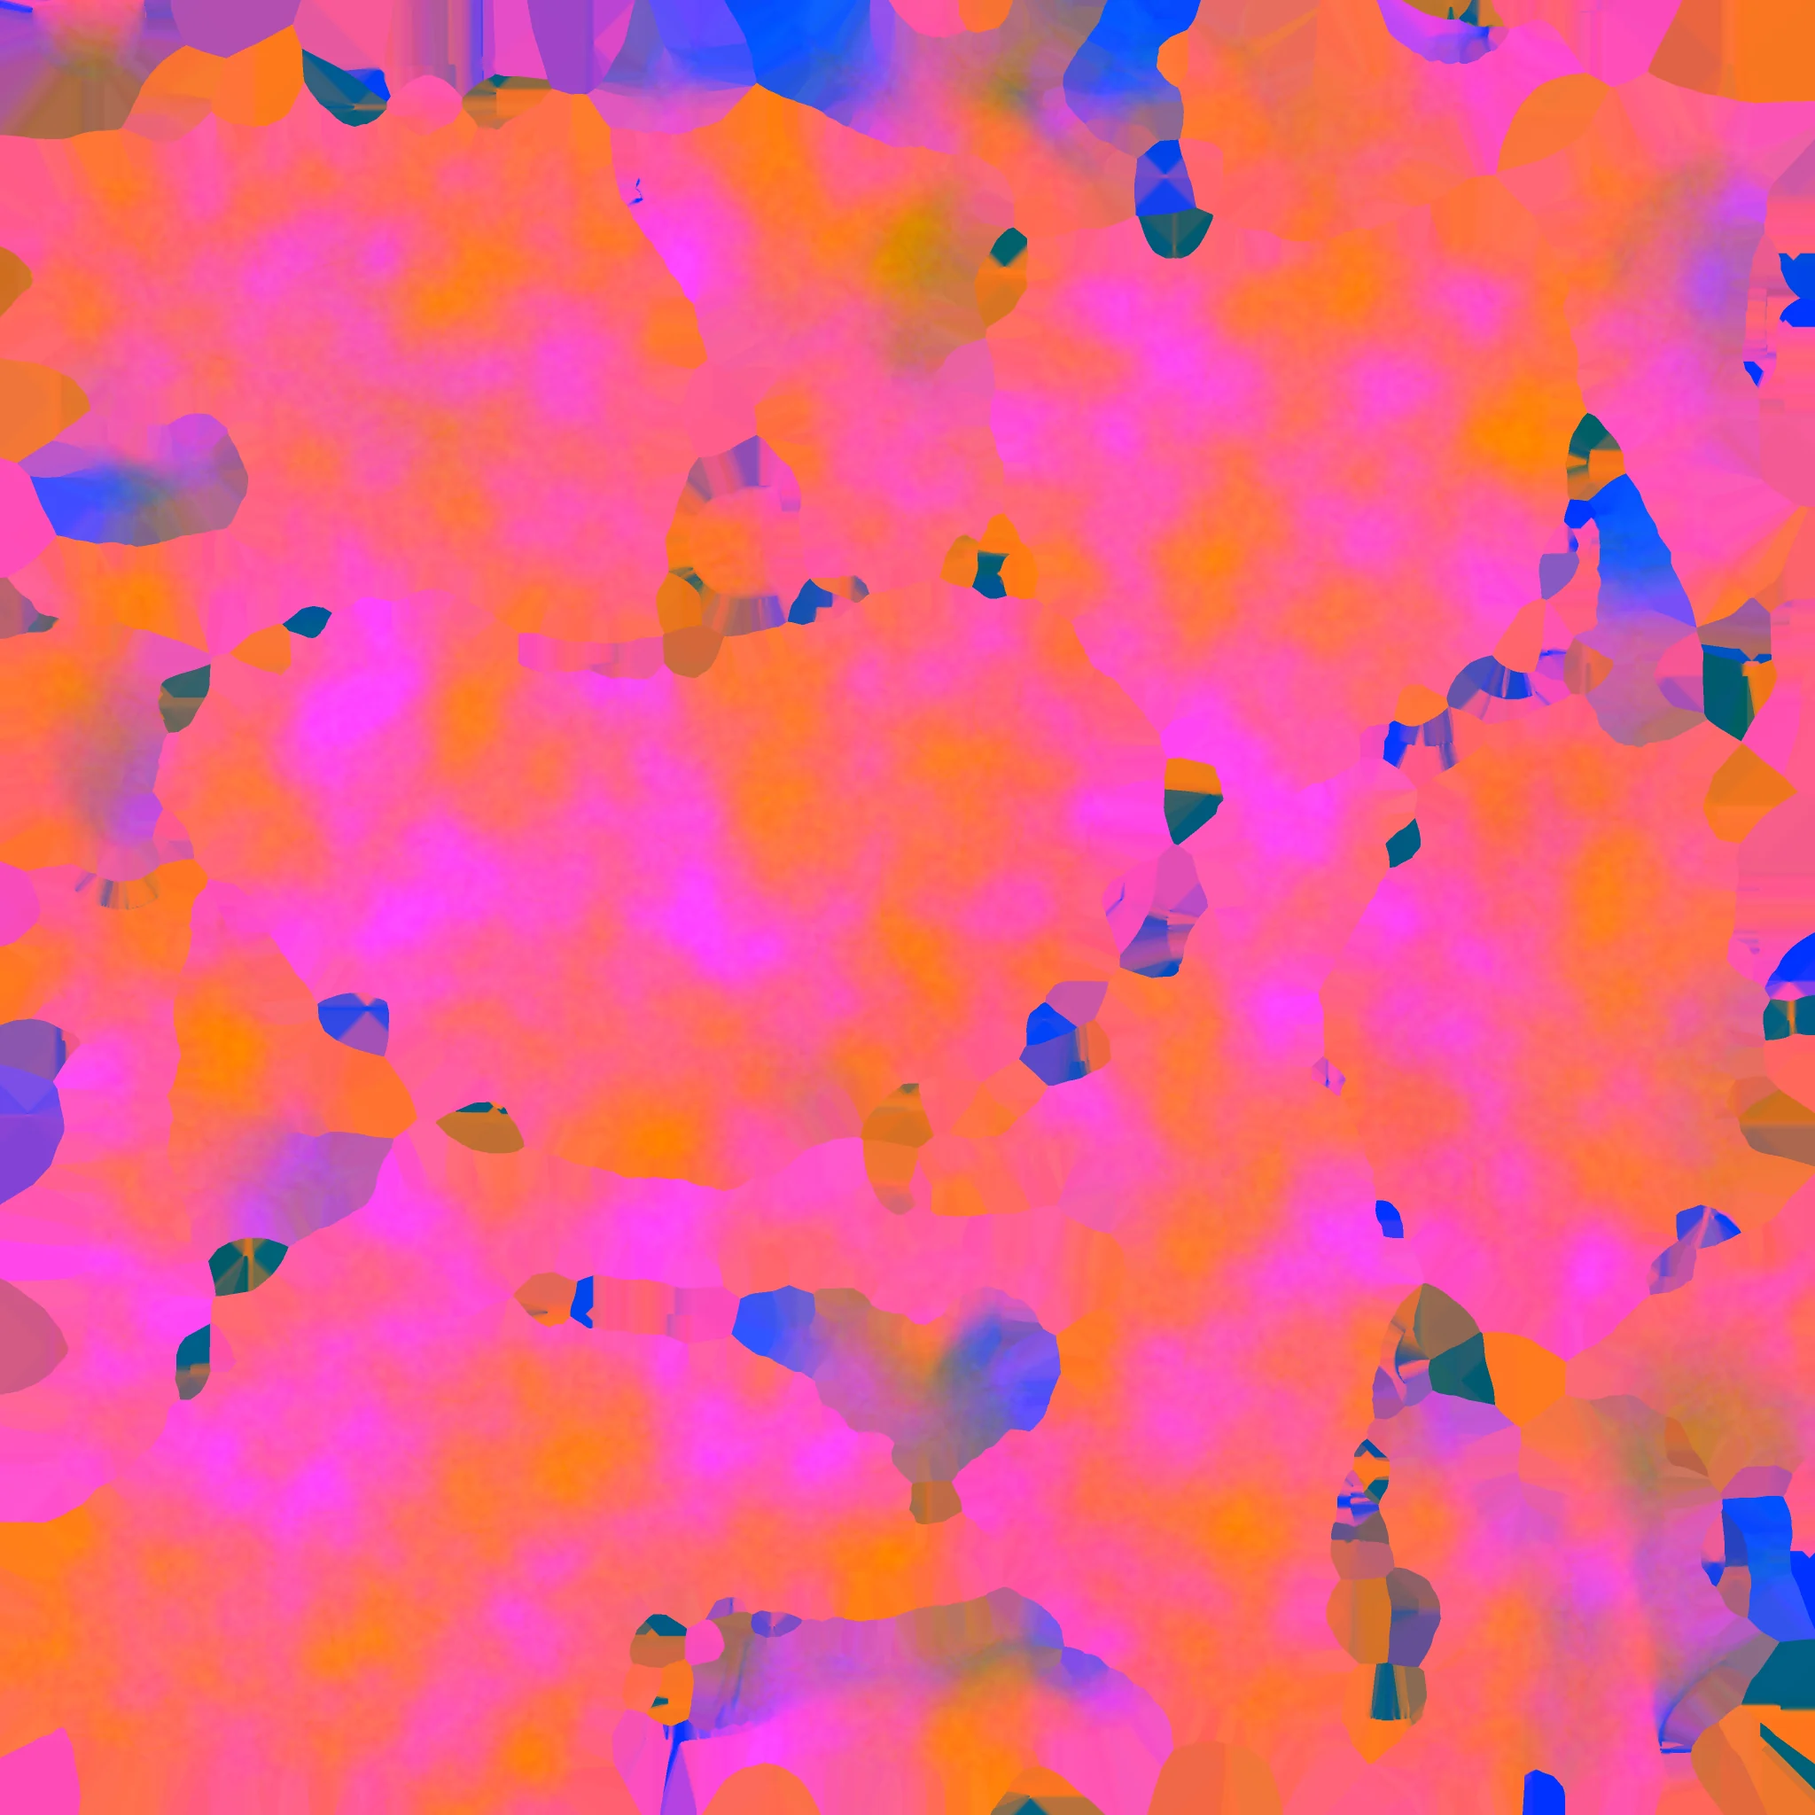
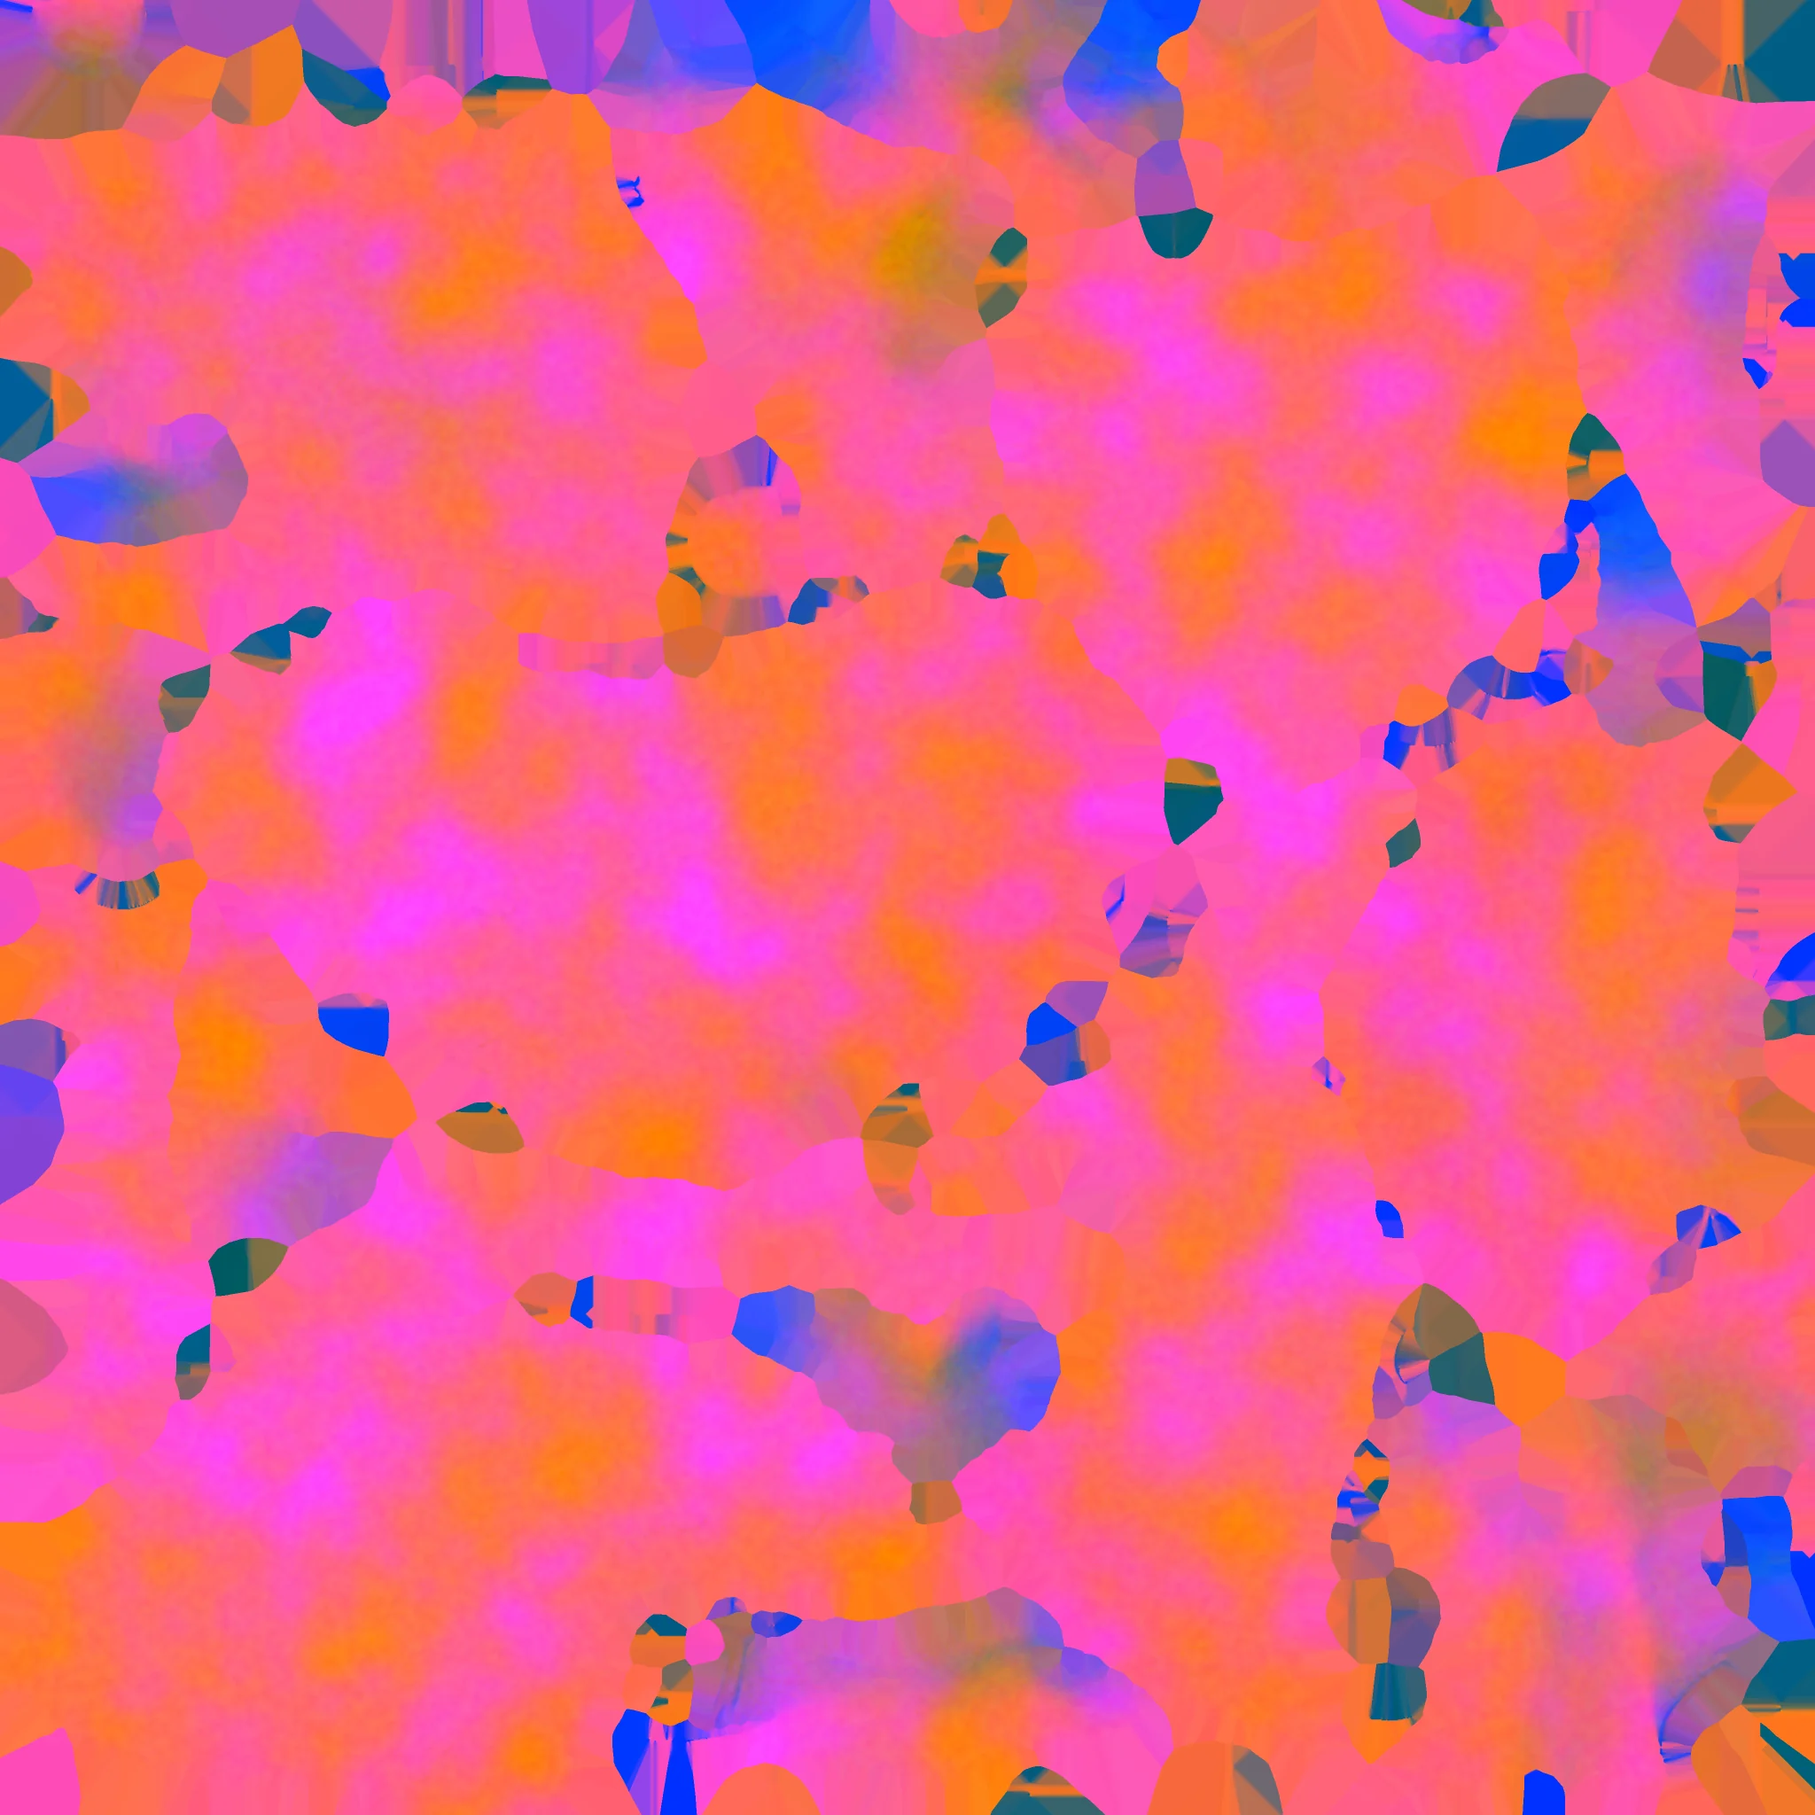
Task 9: liver surface without the lobule pattern; coarse capsule, veins, contouring; env + key lighting
Removed the surface lobule pattern (albedo Worley speckle and the lobular close-range detail map)
that read as blur at mid distance. bake44.py relief now: broad contouring plus a few long, soft
creases (zero set of a warped low-frequency field; the old Worley creases formed a cellular net),
faintly raised subcapsular veins on the same network the albedo darkens (tissue-liver-5), and a
slightly coarse ~1.3 mm capsular grain (maleinternalorans3dsmodel25); full liver re-bake. Close-range
micro-texture liver44_micro.webp (fine grain, sparse soft pits, no cells), faded out by screen
footprint so it only shows up close. Wet serosal gloss via clearcoat from the baked wetness mask;
the bare area, IVC groove and gallbladder fossa stay matte (masks checked in place with the skin
debug view). Lighting is environment map + key (world key and viewer headlight): the blue fill and
amber rim lights are removed (gold streaks on the wet visceral surface), ambient 0.54 -> 0.34,
environment 1.5 -> 1.75, headlight 0.66 -> 0.80. No shadow maps. Baselines rebaselined.

Claude-Session: https://claude.ai/code/session_01Nj6yACnfvfM4DxtWCtf6uA

diff --git a/src/atlas.js b/src/atlas.js
@@ -202,8 +202,12 @@ function info(l){
 /* v36 render settings in one place (tone mapper, exposure, light rig, environment strength) */
 /* ACESFilmic kept: against AgX at matched brightness it holds the teaching colour code apart (CIEDE2000, home view:
    artery–portal 33.5 vs 27.3, bile–artery 43.8 vs 31.3, fat–nutmeg 15.3 vs 10.1, portal–hepatic vein 19.6 vs 15.7). */
-const R36={tm:THREE.ACESFilmicToneMapping, exp:1.15, env:1.5,
-  key:[0xFFF1E4,1.50,-4,5,6], fill:[0x9DB6DA,0.54,6,0.5,3], rim:[0xE8B070,0.84,-3,3,-6], amb:[0x1C2734,0.54], cam:0.66};
+/* v44 (Task 9): environment map + key light. The coloured fill (blue) and rim (amber) lights are gone: on the wet liver
+   the amber rim left gold streaks on the visceral surface. The key is the world key plus the viewer-mounted headlight
+   (so the side turned to the viewer stays lit), the flat ambient is lower (it flattened surfaces towards clay), and the
+   studio environment carries a little more of the fill and the wet reflections. No shadow maps (Task 1). */
+const R36={tm:THREE.ACESFilmicToneMapping, exp:1.15, env:1.75,
+  key:[0xFFF1E4,1.50,-4,5,6], amb:[0x1C2734,0.34], cam:0.80};
 const stageEl = document.getElementById('stage');
 const renderer = new THREE.WebGLRenderer({antialias:true, powerPreference:'high-performance'});
 renderer.setPixelRatio(Math.min(devicePixelRatio, 2));
@@ -242,9 +246,7 @@ function addLight(col, inten, x,y,z){
   const l = new THREE.DirectionalLight(col, inten);
   l.position.set(x,y,z); scene.add(l); return l;   // position is read-only: always .set()
 }
-const LIGHTS={key:addLight(R36.key[0],R36.key[1],R36.key[2],R36.key[3],R36.key[4]),
-  fill:addLight(R36.fill[0],R36.fill[1],R36.fill[2],R36.fill[3],R36.fill[4]),
-  rim:addLight(R36.rim[0],R36.rim[1],R36.rim[2],R36.rim[3],R36.rim[4]), amb:new THREE.AmbientLight(R36.amb[0],R36.amb[1])};
+const LIGHTS={key:addLight(R36.key[0],R36.key[1],R36.key[2],R36.key[3],R36.key[4]), amb:new THREE.AmbientLight(R36.amb[0],R36.amb[1])};
 scene.add(LIGHTS.amb);
 
 const controls = new OrbitControls(camera, renderer.domElement);
@@ -1582,18 +1584,21 @@ function falciformBuild(body){
    v44: the maps come from pipeline/bake44.py (one scripted headless run: tangent normal, self-AO, cavity, curvature,
    thickness and position bakes → albedo, normal and ORM = R occlusion, G roughness, B clearcoat / wetness), 4K on desktop
    and 2K on phones, chosen at load (phones had no liver maps before). The tiling detail map replaces the generic skin atlas
-   on the liver at close range (desktop), with the macro maps carrying colour, capsular veins, creases, wetness and AO. */
+   on the liver at close range (desktop), with the macro maps carrying colour, capsular veins, creases, wetness and AO.
+   v44 (Task 9): the detail map is liver44_micro.webp, a fine capsular grain with sparse soft pits and no lobular cells (the
+   v42 Worley lobules read as a blurred pattern at mid distance); the skin shader fades it out by screen footprint, so it
+   only appears at close range. */
 /* v44: uLvMean (skin uniforms) is the mean of the composed liver albedo (bake44.py prints it), so pathology colours keep
    their luminance when they take only the map's light/dark pattern */
 const LIVER_PHONE=innerWidth<=860||(innerHeight<=520&&matchMedia('(pointer:coarse)').matches);
 const LIVER_DETAIL_TEX=(()=>{ if(LIVER_PHONE) return null;
-  const t=new THREE.TextureLoader().load('liver42_detail.png'); t.wrapS=t.wrapT=THREE.RepeatWrapping; t.anisotropy=renderer.capabilities.getMaxAnisotropy(); t.colorSpace=THREE.NoColorSpace; return t; })();
+  const t=new THREE.TextureLoader().load('liver44_micro.webp'); t.wrapS=t.wrapT=THREE.RepeatWrapping; t.anisotropy=renderer.capabilities.getMaxAnisotropy(); t.colorSpace=THREE.NoColorSpace; return t; })();
 function liverTex42(...mats){
   const ld=new THREE.TextureLoader(), an=renderer.capabilities.getMaxAnisotropy(), tag=LIVER_PHONE?'2k':'4k';
   const L=(f,cs)=>new Promise((ok,no)=>ld.load(f,t=>{ t.colorSpace=cs; t.anisotropy=an; ok(t); },undefined,()=>no(new Error(f))));
   Promise.all([L(`liver44_albedo_${tag}.webp`,THREE.SRGBColorSpace),L(`liver44_normal_${tag}.webp`,THREE.NoColorSpace),L(`liver44_orm_${tag}.webp`,THREE.NoColorSpace)])
     .then(([A,Nm,O])=>{ for(const m of mats){ const U=m.userData.skin; if(!U) continue;
-        U.tLvA.value=A; U.tLvO.value=O; if(LIVER_DETAIL_TEX) U.tSkin.value=LIVER_DETAIL_TEX; U.uSkS.value.set(3.9,9,1); U.uSkK.value.set(0.00006,0.00012,0.04,0);
+        U.tLvA.value=A; U.tLvO.value=O; if(LIVER_DETAIL_TEX) U.tSkin.value=LIVER_DETAIL_TEX; U.uSkS.value.set(3.9,9,1); U.uSkK.value.set(0.00009,0.00010,0.03,0);
         U.uSkK2.value.set(0,0.10,0.35); U.uLvNod.value=1; if(m.clearcoat>0.5){ m.userData.cc42=true; }
         m.normalMap=Nm; m.normalScale=new THREE.Vector2(1,1); m.userData.nScale=1; m.defines=Object.assign(m.defines||{},{SKIN_TEX42:''}); m.needsUpdate=true; }
       LIVER_TEX.ready=true; const u=tiers[0].inner&&tiers[0].inner.userData; if(u&&u.plainMat){ u.forceCirr=true; applyCirrhosis(u,state.fibrosis); } })

diff --git a/pipeline/bake44.py b/pipeline/bake44.py
@@ -150,11 +150,18 @@ def panc_height(X):
     return -p['lob_d'] * sep + p['dome'] * np.clip(L, 0, 0.6) / 0.6 - p['fine_d'] * fsep + p['und_d'] * und
 
 
-# liver relief: the v42 capsule (hi42.py): broad undulation, very soft creases, fine grain
+# liver relief (v44, Task 9): contouring after tissue-liver-5 (broad undulation plus soft shallow creases), subcapsular
+# veins very slightly raised along the same network the albedo darkens, and a slightly coarse capsular grain (~1.3 mm)
+# after maleinternalorans3dsmodel25. No lobular cells (the v42 lobule speckle and detail cells read as blur at mid distance).
 def liver_height(X):
-    h = 0.0070 * fbm(X * 3.2, 4, seed=3)
-    cr = worley_f2f1(X * 6.0, seed=7); h += -0.0009 * np.exp(-(cr / 0.10) ** 2)
-    return h + 0.0012 * fbm(X * 28.0, 3, seed=11)
+    h = 0.0070 * fbm(X * 3.2, 4, seed=3) + 0.0050 * fbm(X * 1.4, 2, seed=4)            # contour: broad undulation
+    # soft shallow creases: a few long, gently curving grooves (zero set of a warped low-frequency field), only where a
+    # second field allows them, so they read as contour folds, not as a cellular network (v42's Worley creases did)
+    wx = X + 0.12 * np.stack([fbm(X * 1.8, 2, seed=101), fbm(X * 1.8 + 5.3, 2, seed=102), fbm(X * 1.8 + 9.1, 2, seed=103)], -1)
+    g = fbm(wx * 2.6, 3, seed=7); allow = np.clip((fbm(X * 1.1, 2, seed=8) + 0.05) / 0.35, 0, 1)
+    h += -0.0022 * np.exp(-(g / 0.045) ** 2) * allow
+    h += 0.0009 * liver_veins(X)                                                         # veins, faintly raised
+    return h + 0.0017 * fbm(X * 52.0, 3, seed=11)                                        # coarse capsular grain
 
 
 def stage_high(organ, cfg):
@@ -265,7 +272,8 @@ def compose_liver(X, ao, cav, curv, thick, onrm=None):
     """liver colour (v44): heterogeneous red-brown. The base colour blends from the superior / diaphragmatic surface
     (LIVER_SUP) to the inferior / visceral surface (LIVER_INF) by surface orientation (the texel's object-space normal,
     +y superior) plus low-frequency 3D noise, through a wide smoothstep, so there is no boundary. On top: patchy mottling,
-    fine mottle, lobular speckle, capsular veins, cavity and a light AO term (the page also occludes indirect light).
+    fine mottle, capsular veins, cavity and a light AO term (the page also occludes indirect light). v44 Task 9: no
+    lobular speckle (the Worley 'lob' cells read as a blurred pattern at mid distance).
     Wetness also follows the baked curvature (drier on convex ridges and the thin inferior border)."""
     ev = lambda fn: chunked(fn, X, 1_000_000)
     sup, inf, dark = lin(LIVER_SUP), lin(LIVER_INF), lin('#2E1018')
@@ -274,10 +282,9 @@ def compose_liver(X, ao, cav, curv, thick, onrm=None):
     t = np.clip((ny + 0.50 * lf + 0.15 - (-0.55)) / (0.60 - (-0.55)), 0, 1); wgt = t * t * (3 - 2 * t)
     col = inf[None] * (1 - wgt)[:, None] + sup[None] * wgt[:, None]
     m2 = ev(lambda x: fbm(x * 6.0, 4, seed=33)); m3 = ev(lambda x: fbm(x * 30.0, 2, seed=45))
-    lob = ev(lambda x: worley_f2f1(x * 42.0, seed=57)); vn = ev(liver_veins); wet = ev(lambda x: fbm(x * 2.2, 3, seed=81))
+    vn = ev(liver_veins); wet = ev(lambda x: fbm(x * 2.2, 3, seed=81))
     col *= (1 + 0.09 * m2)[:, None]; col *= (1 + 0.05 * m3)[:, None]
-    col *= (1 - 0.035 * np.exp(-(lob / 0.08) ** 2))[:, None]
-    col = col * (1 - 0.20 * vn[:, None]) + dark * 0.20 * vn[:, None]
+    col = col * (1 - 0.24 * vn[:, None]) + dark * 0.24 * vn[:, None]                    # subcapsular veins (tissue-liver-5)
     col *= (0.72 + 0.28 * ao ** 0.8)[:, None]; col *= (0.85 + 0.15 * cav)[:, None]
     rough = np.clip(0.40 - 0.126 * np.clip(wet * 1.8 + 0.1, -1, 1) - 0.10 * (1 - cav) + 0.05 * m3, 0.16, 0.62)
     wetn = np.clip(0.55 + 0.9 * wet + 0.4 * (1 - ao) - 0.25 * np.clip(curv - 0.6, 0, 1) - 0.15 * (1 - thick), 0, 1)
@@ -323,6 +330,32 @@ def stage_compose(organ, cfg):
     print('compose:', ', '.join(f'{k} {v} KB' for k, v in out.items()), flush=True)
 
 
+def stage_detail(organ, cfg):
+    """liver close-range micro-texture (v44, replaces liver42_detail.png's lobular Worley cells): 1024² tileable, sampled
+    triplanar by the page's skin shader at 3.9 / 9 repeats per unit and faded out by screen footprint, so it only shows up
+    close. R: fine capsular grain (isotropic 1/f noise with sparse soft pits, ~0.2–0.6 mm), G: mid grain for the bump,
+    B: micro mottle. No cells, no ridges — nothing that reads as a pattern at mid distance."""
+    from PIL import Image
+    D = 1024; rng = np.random.default_rng(44)
+    f = np.fft.fftfreq(D); k = np.hypot(*np.meshgrid(f, f)); k[0, 0] = 1
+
+    def per(beta, lo=0.0, hi=1.0, seed=0):
+        w = np.random.default_rng(seed).standard_normal((D, D)); band = (k >= lo * 0.5) & (k <= hi * 0.5)
+        s = np.real(np.fft.ifft2(np.fft.fft2(w) / k ** beta * band)); return (s - s.mean()) / s.std()
+    grain = per(0.9, 0.02, 1.0, 1)
+    pits = np.zeros((D, D)); yy, xx = np.mgrid[0:D, 0:D]
+    for _ in range(900):                                   # sparse soft pits (capsular micro-dimpling), periodic
+        cx, cy, r = rng.random() * D, rng.random() * D, 2 + rng.random() * 4
+        dx = (xx - cx + D / 2) % D - D / 2; dy = (yy - cy + D / 2) % D - D / 2
+        m = (np.abs(dx) < 4 * r) & (np.abs(dy) < 4 * r); pits[m] -= np.exp(-(dx[m] ** 2 + dy[m] ** 2) / (r * r))
+    R = np.clip(0.55 + 0.16 * grain + 0.22 * pits, 0, 1)
+    G = np.clip(0.5 + 0.20 * per(1.1, 0.0, 0.25, 2), 0, 1)
+    B = np.clip(0.5 + 0.14 * per(0.8, 0.0, 0.6, 3), 0, 1)
+    img = np.stack([R, G, B], -1)                                   # lossy WebP: the grain is noise (a PNG was 2.7 MB)
+    Image.fromarray((img * 255 + 0.5).astype(np.uint8), 'RGB').save(ROOT / 'assets' / f'{organ}44_micro.webp', quality=90, method=6)
+    print('detail:', f'{organ}44_micro.webp', (ROOT / 'assets' / f'{organ}44_micro.webp').stat().st_size // 1024, 'KB', flush=True)
+
+
 if __name__ == '__main__':
     organ = sys.argv[1]; cfg = ORGANS[organ]
     stages = ['uv', 'high', 'bake', 'compose']
@@ -330,5 +363,5 @@ if __name__ == '__main__':
     for s in stages:
         t = time.time()
         {'uv': lambda: stage_uv(organ, cfg['res'][0]), 'high': lambda: stage_high(organ, cfg), 'bake': lambda: stage_bake(organ, cfg),
-         'compose': lambda: stage_compose(organ, cfg)}[s]()
+         'compose': lambda: stage_compose(organ, cfg), 'detail': lambda: stage_detail(organ, cfg)}[s]()
         print(f'[{s}] {time.time()-t:.0f} s', flush=True)

diff --git a/CHANGELOG.md b/CHANGELOG.md
@@ -9,6 +9,7 @@
 - Falciform ligament (after the tissue-liver-4 reference): anterior course only, from the dome edge down to the umbilical notch; the wide superior section is removed. A low soft fold (~0.7 mm high on a ~1.2 cm base) in the liver's own red-brown, a step paler, flanks tucked under the capsule (no z-fighting). The ligamentum teres is kept in the scene graph but hidden (`visible=false`, `userData.teachingHidden`).
 - Liver bake (`pipeline/bake44.py liver`, headless, reproducible): tangent-space normal, self-AO, cavity, curvature and thickness (plus position) baked from the high mesh; albedo, roughness and a clearcoat/wetness mask composed from them. 4K on desktop, 2K on phones, chosen at load (phones previously had no liver maps). WebP, not KTX2: the artifact host refuses `.ktx2`. `dist` budget 9 → 10 MB for the per-device sets.
 - Liver colour: heterogeneous, blending smoothly from a browner superior/diaphragmatic surface (#7A3B2E) to a deeper purple-red inferior/visceral surface (#5A2433), driven by each texel's baked object-space normal plus low-frequency 3D noise through a wide smoothstep (no boundary). Falciform re-matched a step paler than the new palette.
+- Liver surface: the lobule pattern is gone (the Worley lobule speckle in the albedo and the lobular close-range detail map, which read as blur at mid distance). New relief after maleinternalorans3dsmodel25 / tissue-liver-5: a slightly coarse capsular grain (~1.3 mm), broad contouring with a few long soft creases (v42's Worley creases made a cellular net once deepened), subcapsular veins faintly raised and darkened. Close range only: `liver44_micro.webp` (fine grain and soft pits, no cells), faded by screen footprint. Wet serosal clearcoat from the baked wetness mask; matte bare area, IVC groove and gallbladder fossa (checked in place). Lighting: environment map + key (world key and viewer headlight); the blue fill and amber rim lights are removed (the rim left gold streaks on the visceral surface), ambient lowered, environment raised.
 
 ## v43 — foundation (27 Sept 2026)
 No intended visual change from v42.
